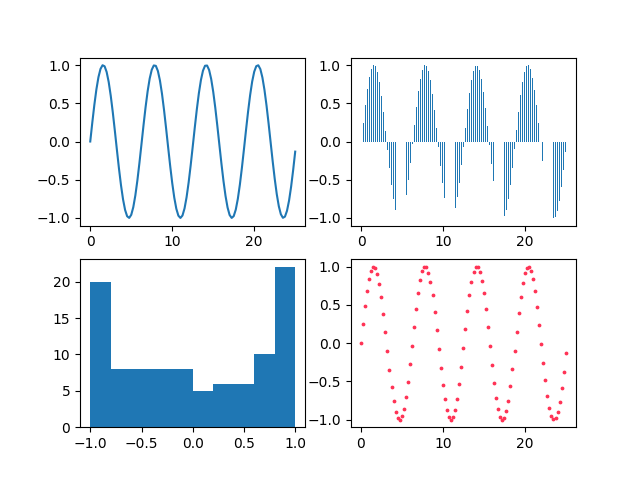
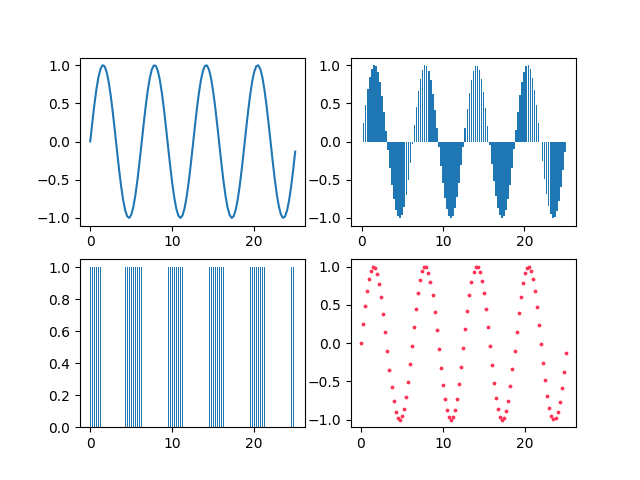
230707 matplot.py

diff --git a/AI_python/0707/matplot.py b/AI_python/0707/matplot.py
@@ -11,10 +11,10 @@ plt.subplot(221)
 plt.plot(x,y)
 
 plt.subplot(222)
-plt.bar(x,y,width=0.1)
+plt.bar(x,y,width=0.2)
 
 plt.subplot(223)
-plt.hist(y)
+plt.hist(x,bins=500, density=False)
 
 plt.subplot(224)
 plt.scatter(x,y, s=3, c='#f35')
